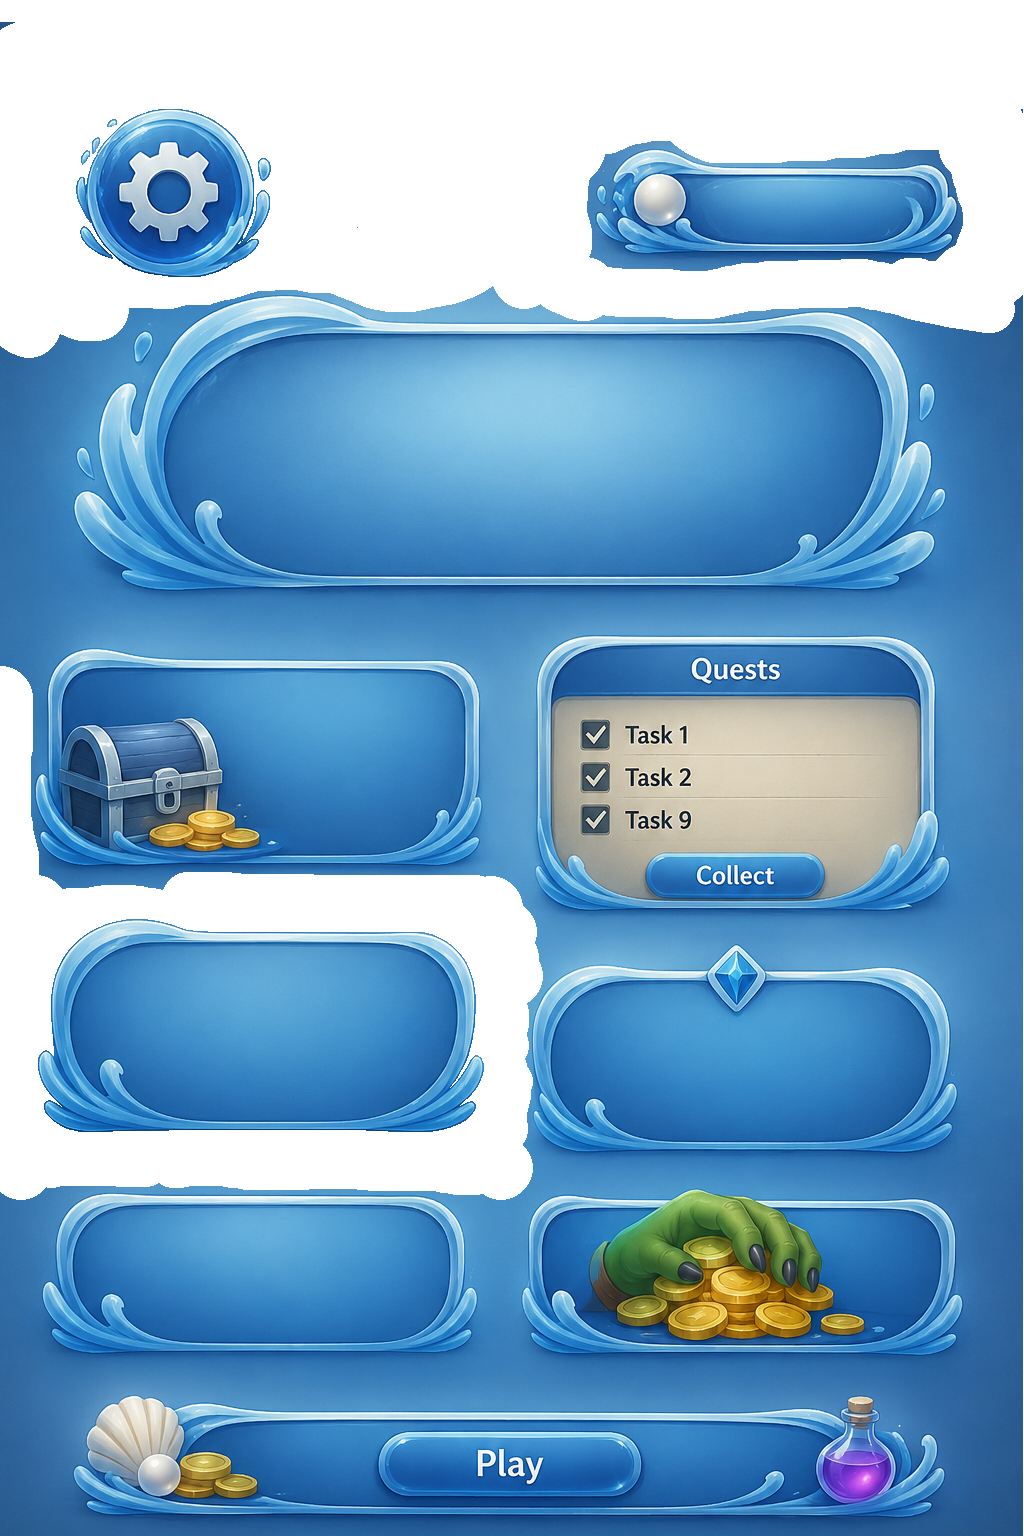
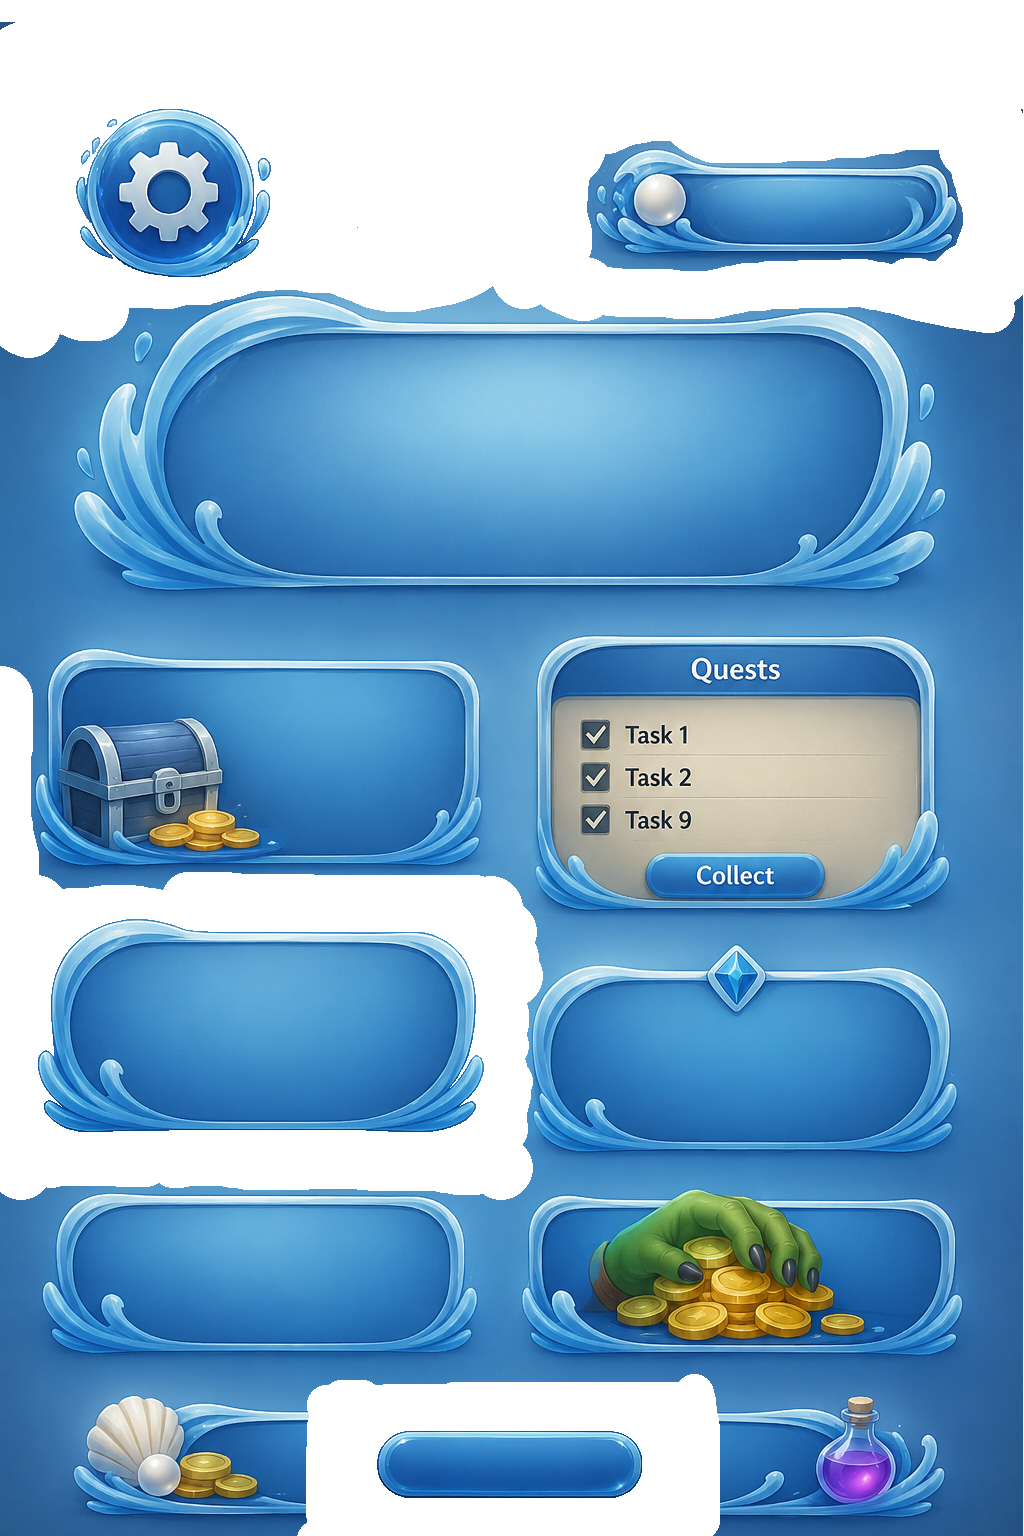
session end. map instantiiate

Changed region(s): [[0.2812, 0.875, 0.7188, 1.0]]

diff --git a/Assets/Scripts/Session.cs b/Assets/Scripts/Session.cs
@@ -8,12 +8,14 @@ public class Session : MonoBehaviour
     private List<Gem> stolenGems;
     private List<SpawnWave> completedWaves;
     private float sessionStartTime;
-
+    private int currentMapIndex = 0;
+    
     public void Init(Game game) {
         _game = game;
     }
 
     public void SessionStart() {
+        _game.map = Instantiate(_game.library.maps[currentMapIndex]);
         _game.map.Init(_game);
         savedGems = _game.map.gems;
         stolenGems = new List<Gem>();
@@ -39,7 +41,8 @@ public class Session : MonoBehaviour
     }
 
     public void SessionEnd() { 
-        
+        Destroy(_game.map.gameObject);
+        currentMapIndex++;
     }
 
     public void StealGem(Gem gem) {
@@ -79,4 +82,8 @@ public class Session : MonoBehaviour
 
     public int GetSavelGemsCount() => savedGems.Count;
     public int GetStolenGemsCount() => stolenGems.Count;
+
+    public void WinConfirm(){
+        _game.ui.HideWinScreen();
+    }
 }

diff --git a/Assets/Scripts/UI/UI.cs b/Assets/Scripts/UI/UI.cs
@@ -1,5 +1,6 @@
 using UnityEngine;
 using TMPro;
+using UnityEngine.UI;
 
 public class UI : MonoBehaviour
 {
@@ -9,9 +10,11 @@ public class UI : MonoBehaviour
     public TextMeshProUGUI stolenGemsText;
 
     public Transform winScreen;    
+    public Button winConfirmButton;
 
     public void Init(Game boot) {
-        _game = boot;        
+        _game = boot;      
+        winConfirmButton.onClick.AddListener(OnWinConfirm);  
     }
 
     public void ShowWinScreen(int score) {
@@ -26,5 +29,9 @@ public class UI : MonoBehaviour
     public void RefreshCounts() {
         savedGemsText.text = _game.session.GetSavelGemsCount().ToString();
         stolenGemsText.text = _game.session.GetStolenGemsCount().ToString();
+    }
+
+    private void OnWinConfirm(){
+        _game.session.WinConfirm();
     }
 }

diff --git a/Assets/Scripts/Health.cs b/Assets/Scripts/Health.cs
@@ -42,7 +42,7 @@ public class Health : MonoBehaviour
 		RefreshHpCounter();        
     }
 
-	public void Death() {
+	private void Death() {
 		isDead = true;
 		_owner.Death();
 	}
@@ -58,8 +58,6 @@ public class Health : MonoBehaviour
 		HP = Mathf.Clamp(HP + value, 0, maxHP);
 		if (HP <= 0)
 			Death();
-		else
-			_owner.NonLetalDamage();
 		RefreshHpCounter();
 	}
 
@@ -74,5 +72,4 @@ public interface IHealthy
 {
 	public void NonLetalDamage();
 	public void Death();
-	public void Heal();
 }

diff --git a/Assets/Scripts/Enemy/Enemy.cs b/Assets/Scripts/Enemy/Enemy.cs
@@ -14,6 +14,7 @@ public class Enemy : MonoBehaviour , IHealthy
 
     void Start() {
         if (_factory) return;
+        Debug.LogWarning("Enemy was not inited.");
         Game.instance.enemyFactory.Register(this);
     }
 
@@ -34,10 +35,6 @@ public class Enemy : MonoBehaviour , IHealthy
         Debug.Log("Death");
         _game.session.EnemyKilled();
         _factory.Destroy(this);
-    }
-
-    public void Heal() {
-        
     }
 
     private void OnValidate() {

diff --git a/Assets/Scripts/Game.cs b/Assets/Scripts/Game.cs
@@ -18,7 +18,6 @@ public class Game : MonoBehaviour
 
     public Library library;
 
-
     private void Awake() {
         instance = this;
         mainCamera = Camera.main;

diff --git a/Assets/Scripts/Library.cs b/Assets/Scripts/Library.cs
@@ -3,5 +3,5 @@ using UnityEngine;
 [CreateAssetMenu(menuName = "Data/library", fileName = "library")]
 public class Library : ScriptableObject
 {
-
+    public Map[] maps;
 }
